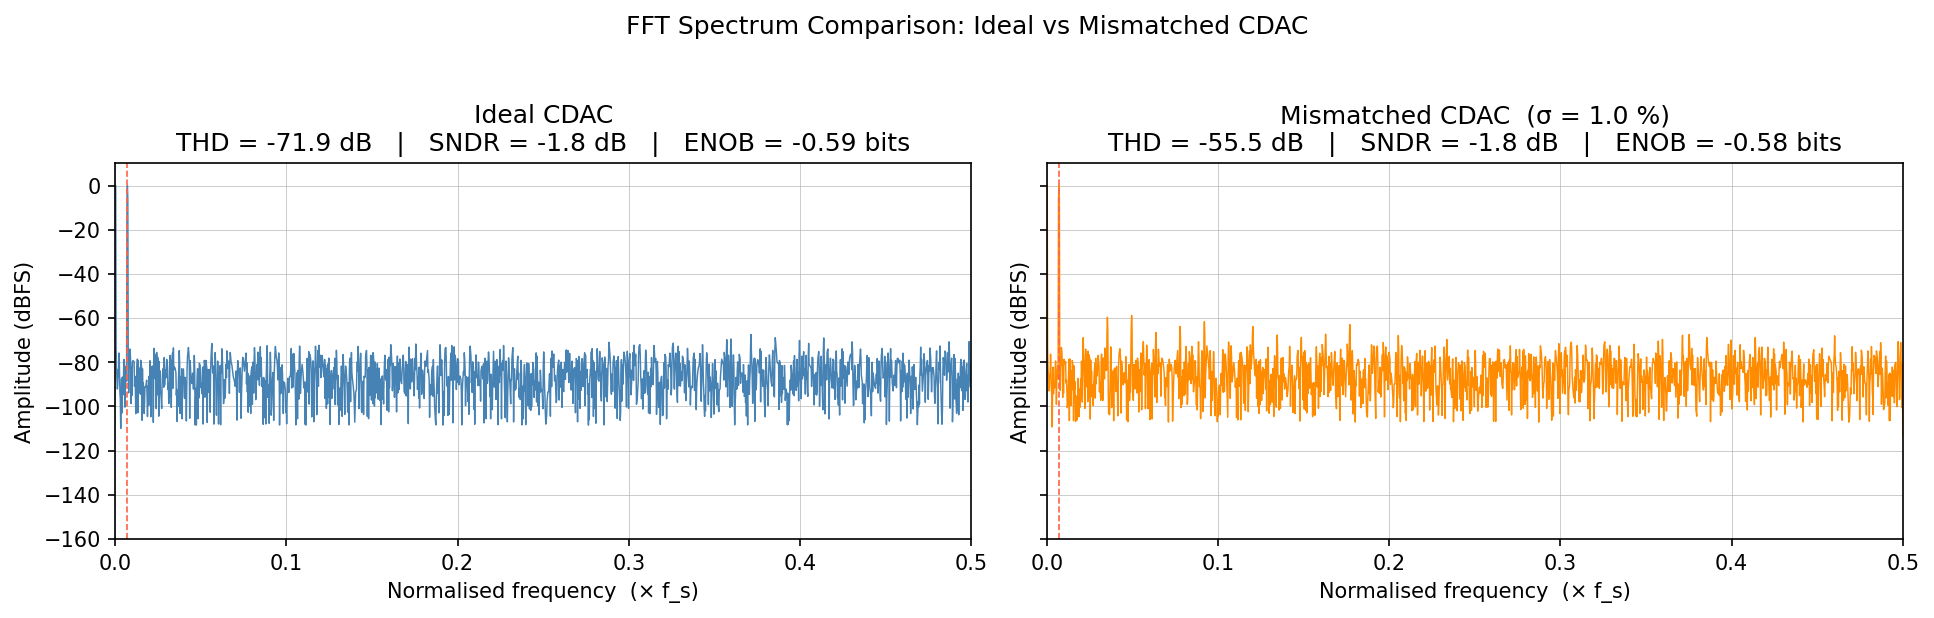
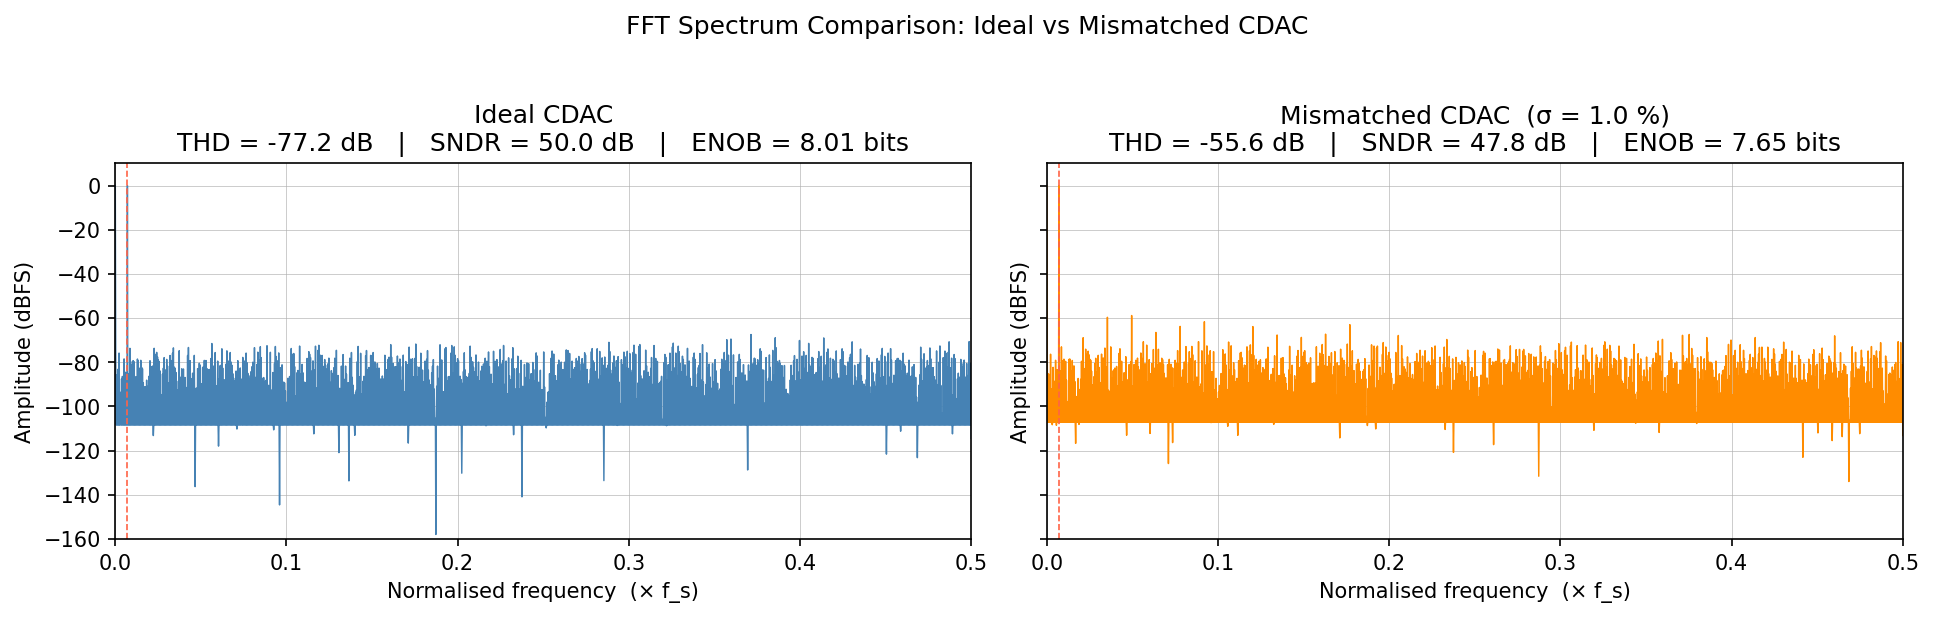
Migrate to src layout with pyproject.toml; fix SNDR for coherent sampling
Agent-Logs-Url: https://github.com/ShabbyGayBar/CDAC-8bit/sessions/5656f700-3eb8-4d19-82b0-92cea9722b25

Changed region(s): [[0.062, 0.5534, 0.9928, 0.7071], [0.5584, 0.2152, 0.9617, 0.246], [0.0931, 0.2152, 0.4654, 0.246]]

diff --git a/src/cdac8bit/__main__.py b/src/cdac8bit/__main__.py
@@ -1,5 +1,5 @@
 """
-main.py — 8-bit CDAC behavioral model: simulation and analysis.
+__main__.py — 8-bit CDAC behavioral model: simulation and analysis.
 
 Parts
 -----
@@ -15,10 +15,9 @@ import numpy as np
 import matplotlib
 matplotlib.use("Agg")           # headless backend (no display required)
 import matplotlib.pyplot as plt
-import matplotlib.gridspec as gridspec
 
-from cdac_model import CDAC8bit
-from analysis import compute_fft_spectrum, compute_thd_sndr, compute_inl_dnl
+from cdac8bit.cdac_model import CDAC8bit
+from cdac8bit.analysis import compute_fft_spectrum, compute_thd_sndr, compute_inl_dnl
 
 # ---------------------------------------------------------------------------
 # Global simulation parameters
@@ -26,8 +25,10 @@ from analysis import compute_fft_spectrum, compute_thd_sndr, compute_inl_dnl
 
 VREF = 1.0          # Reference voltage (V)
 N_FFT = 4096        # FFT / simulation length (power-of-2 for efficiency)
-M_CYCLES = 29       # Number of input sine cycles in N_FFT points
-                    # 29 is prime → coherent sampling, no spectral leakage
+M_CYCLES = 29       # Number of input sine cycles in N_FFT points.
+                    # 29 is prime → gcd(29, 4096) = 1 (coprime), so the
+                    # signal frequency lands exactly on a single FFT bin
+                    # with no spectral leakage (coherent sampling).
 N_HARMONICS = 9     # Harmonics included in THD calculation
 
 MISMATCH_SIGMA = 0.01   # 1 % relative capacitor mismatch (σ)
@@ -65,7 +66,7 @@ def part_a(dac_ideal: CDAC8bit, codes: np.ndarray) -> dict:
     vout = dac_ideal.convert(codes)
 
     result = compute_thd_sndr(vout, VREF, fin_bin=M_CYCLES,
-                               n_harmonics=N_HARMONICS, window=True)
+                               n_harmonics=N_HARMONICS, window=False)
     spec = result['spectrum']
 
     print("=" * 60)
@@ -114,7 +115,7 @@ def part_b(dac_mismatch: CDAC8bit, codes: np.ndarray) -> dict:
     vout = dac_mismatch.convert(codes)
 
     result = compute_thd_sndr(vout, VREF, fin_bin=M_CYCLES,
-                               n_harmonics=N_HARMONICS, window=True)
+                               n_harmonics=N_HARMONICS, window=False)
     spec = result['spectrum']
 
     print()
@@ -209,12 +210,10 @@ def part_c(dac_ideal: CDAC8bit) -> dict:
     print(f"  Peak |INL|       : {result['inl_max']:.4f} LSB")
 
     # --- Voltage Transfer Curve (VTC) ---
-    fig = plt.figure(figsize=(10, 9))
-    gs = gridspec.GridSpec(3, 1, figure=fig, hspace=0.45)
-
-    ax_vtc = fig.add_subplot(gs[0])
-    ax_dnl = fig.add_subplot(gs[1])
-    ax_inl = fig.add_subplot(gs[2])
+    fig, (ax_vtc, ax_dnl, ax_inl) = plt.subplots(
+        3, 1, figsize=(10, 9), constrained_layout=True
+    )
+    fig.suptitle("Part c)  Ideal 8-bit CDAC — Ramp Input Analysis")
 
     # VTC
     ideal_vout = codes_ramp * lsb   # ideal staircase
@@ -251,10 +250,8 @@ def part_c(dac_ideal: CDAC8bit) -> dict:
     ax_inl.legend(fontsize=8)
     ax_inl.grid(True, lw=0.3)
 
-    fig.suptitle("Part c)  Ideal 8-bit CDAC — Ramp Input Analysis", y=1.01)
-    fig.tight_layout()
     path = os.path.join(RESULTS_DIR, "part_c_vtc_inl_dnl.png")
-    fig.savefig(path, dpi=150, bbox_inches='tight')
+    fig.savefig(path, dpi=150)
     plt.close(fig)
     print(f"  → Saved: {path}")
 

diff --git a/src/cdac8bit/__init__.py b/src/cdac8bit/__init__.py
@@ -1,0 +1,26 @@
+"""
+cdac8bit — Behavioral model of an 8-bit capacitor-based DAC.
+
+Modules
+-------
+cdac_model  — CDAC8bit class (ideal and mismatched)
+analysis    — FFT, THD/SNDR, INL/DNL helper functions
+
+Run the full simulation with::
+
+    python -m cdac8bit
+"""
+
+from cdac8bit.cdac_model import CDAC8bit
+from cdac8bit.analysis import (
+    compute_fft_spectrum,
+    compute_thd_sndr,
+    compute_inl_dnl,
+)
+
+__all__ = [
+    "CDAC8bit",
+    "compute_fft_spectrum",
+    "compute_thd_sndr",
+    "compute_inl_dnl",
+]

diff --git a/src/cdac8bit/analysis.py b/src/cdac8bit/analysis.py
@@ -38,7 +38,7 @@ def compute_fft_spectrum(vout: np.ndarray, vref: float,
     """
     N = len(vout)
     if window:
-        w = np.hanning(N)
+        w = np.hanning(N)   # Hann window (reduces spectral leakage)
         cg = np.mean(w)        # coherent gain
         vout_w = vout * w
     else:
